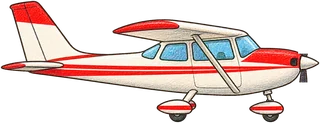
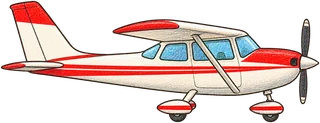
Avion : hélice telle que dessinée, sans le disque flou
À la demande de l'auteur (l'effet ne servait à rien) : le disque translucide qui simulait l'hélice en
rotation est retiré, et les pales de l'hélice sont remises comme sur le dessin (tools/preparer-avion.py
ne les efface plus). Une seule image dessinée par image du jeu.

Claude-Session: https://claude.ai/code/session_018pqLJy8G1ptatL1MbvxXeA

Changed region(s): [[0.9062, 0.1463, 0.9688, 0.439], [0.9375, 0.6585, 0.9688, 0.8537]]

diff --git a/js/avion.js b/js/avion.js
@@ -11,7 +11,7 @@
  * peu, vers celle qui le ramènerait en 8 s là où on s'attend à le voir à l'écran.
  * Sa montée suit sa propre avancée (u, de son départ derrière la butte au bout de l'automne).
  *
- * Dessin : une image (16 Ko, 320 × 123) et un disque (l'hélice qui tourne), seulement quand il est à
+ * Dessin : une seule image (320 × 123, hélice comprise, telle que dessinée), seulement quand il est à
  * l'écran ; l'image est chargée bien avant (ressources.js : dès le niveau 2), libérée après l'automne.
  */
 import { picture, ready, rangeNeed } from './ressources.js';
@@ -102,12 +102,5 @@ export function drawAvion(ctx, cam, time) {
   ctx.translate(x, y);
   ctx.rotate(pitch);
   ctx.drawImage(pic.img, -w / 2, -h / 2, w, h);
-  // l'hélice qui tourne : un disque fin, flou, qui scintille
-  const k = w / meta.w, hx = (meta.helice.x - meta.w / 2) * k, hy = (meta.helice.y - meta.h / 2) * k;
-  ctx.globalAlpha *= 0.28 + 0.1 * Math.sin(time * 47);
-  ctx.fillStyle = '#5a5a60';
-  ctx.beginPath();
-  ctx.ellipse(hx, hy, meta.helice.r * k * 0.13, meta.helice.r * k, 0, 0, Math.PI * 2);
-  ctx.fill();
   ctx.restore();
 }

diff --git a/tools/preparer-avion.py b/tools/preparer-avion.py
@@ -1,10 +1,8 @@
 """
 Prépare l'avion de l'automne (js/avion.js) à partir du dessin fourni (avion.png, fond transparent) :
-- les deux pales de l'hélice qui dépassent du nez sont effacées : en vol, une hélice qui tourne ne se
-  voit pas comme deux pales figées ; le jeu dessine à la place un disque flou qui scintille ;
 - l'image est recadrée sur l'avion et réduite à 320 px de large (l'avion fait 130 à 210 pixels d'écran :
   assez fin sans être trop réduit à l'affichage, ce qui le ferait scintiller) ;
-- images/avion/avion.webp et images/avion/avion.json (taille, centre et rayon de l'hélice).
+- images/avion/avion.webp et images/avion/avion.json (taille).
 Usage : python3 tools/preparer-avion.py avion.png
 """
 import json
@@ -16,10 +14,6 @@ from PIL import Image
 
 src = np.array(Image.open(sys.argv[1]).convert('RGBA'))
 H, W = src.shape[:2]
-# les pales, au-dessus et au-dessous du moyeu (colonnes de l'hélice, hors du nez)
-X0, X1, HUB_Y0, HUB_Y1, LOW = 1626, 1700, 418, 512, 572
-src[:HUB_Y0, X0:X1] = 0
-src[LOW:, X0:X1] = 0
 al = src[..., 3]
 ys, xs = np.nonzero(al > 8)
 x0, y0, x1, y1 = xs.min() - 4, ys.min() - 4, xs.max() + 5, ys.max() + 5
@@ -30,6 +24,5 @@ small = crop.resize((OUT_W, round(crop.height * k)), Image.LANCZOS)
 out = os.path.join(os.path.dirname(__file__), '..', 'images', 'avion')
 os.makedirs(out, exist_ok=True)
 small.save(os.path.join(out, 'avion.webp'), quality=88, method=6)
-hub = [round((1660 - x0) * k, 1), round((465 - y0) * k, 1)]
-json.dump({'w': small.width, 'h': small.height, 'helice': {'x': hub[0], 'y': hub[1], 'r': round(228 * k, 1)}}, open(os.path.join(out, 'avion.json'), 'w'))
-print(small.size, 'hélice', hub)
+json.dump({'w': small.width, 'h': small.height}, open(os.path.join(out, 'avion.json'), 'w'))
+print(small.size)
